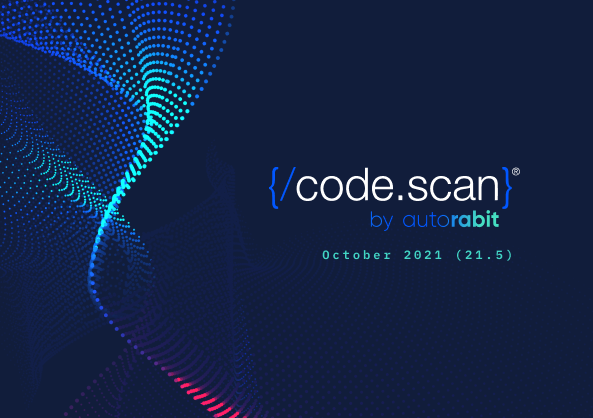
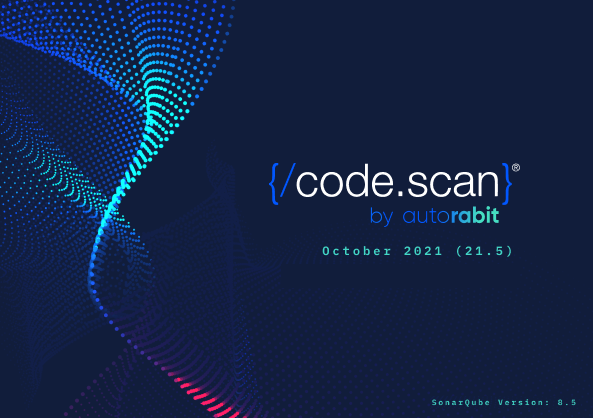
CD-2092 Changed Codescan version in footer and release tag image

diff --git a/server/sonar-web/src/main/js/app/components/GlobalFooterSonarCloud.tsx b/server/sonar-web/src/main/js/app/components/GlobalFooterSonarCloud.tsx
@@ -21,13 +21,7 @@ import * as getYear from 'date-fns/get_year';
 import * as React from 'react';
 import { translate } from 'sonar-ui-common/helpers/l10n';
 
-interface Props {
-  sonarqubeVersion?: string;
-}
-
-export default function GlobalFooterSonarCloud({
-  sonarqubeVersion
-}: Props) {
+export default function GlobalFooterSonarCloud() {
   return (
     <div className="page-footer page-container" id="footer">
       <div>
@@ -43,7 +37,7 @@ export default function GlobalFooterSonarCloud({
 
       <ul className="page-footer-menu">
         <li className="page-footer-menu-item">
-        	Version { sonarqubeVersion }
+        	Version {translate('footer.codescan_version')}
         </li>
         <li className="page-footer-menu-item">
         	<a rel="noopener noreferrer" target="_blank" href="https://www.codescan.io/tos/">{translate('footer.terms')}</a>
@@ -61,7 +55,7 @@ export default function GlobalFooterSonarCloud({
         	<a rel="noopener noreferrer" target="_blank" href="https://www.codescan.io/contact/">{translate('footer.help')}</a>
         </li>
         <li className="page-footer-menu-item">
-        	<a rel="noopener noreferrer" target="_blank" href="https://www.codescan.io/cloud/getting-started/">{translate('footer.about')}</a>
+        	<a rel="noopener noreferrer" target="_blank" href="https://knowledgebase.autorabit.com/codescan/docs/getting-started-with-codescan-cloud">{translate('footer.about')}</a>
         </li>
       </ul>
     </div>

diff --git a/server/sonar-web/src/main/js/app/components/GlobalFooter.tsx b/server/sonar-web/src/main/js/app/components/GlobalFooter.tsx
@@ -20,7 +20,7 @@
 import * as React from 'react';
 import { Link } from 'react-router';
 import { Alert } from 'sonar-ui-common/components/ui/Alert';
-import { translate, translateWithParameters } from 'sonar-ui-common/helpers/l10n';
+import { translate } from 'sonar-ui-common/helpers/l10n';
 import InstanceMessage from '../../components/common/InstanceMessage';
 import { getEdition } from '../../helpers/editions';
 import { isSonarCloud } from '../../helpers/system';
@@ -38,11 +38,10 @@ interface Props {
 export default function GlobalFooter({
   hideLoggedInInfo,
   productionDatabase,
-  sonarqubeEdition,
-  sonarqubeVersion
+  sonarqubeEdition
 }: Props) {
   if (isSonarCloud()) {
-    return <GlobalFooterSonarCloud sonarqubeVersion={sonarqubeVersion}/>;
+    return <GlobalFooterSonarCloud/>;
   }
 
   const currentEdition = sonarqubeEdition && getEdition(sonarqubeEdition);
@@ -64,9 +63,9 @@ export default function GlobalFooter({
         {!hideLoggedInInfo && currentEdition && (
           <li className="page-footer-menu-item">{currentEdition.name}</li>
         )}
-        {!hideLoggedInInfo && sonarqubeVersion && (
+        {!hideLoggedInInfo && (
           <li className="page-footer-menu-item">
-            {translateWithParameters('footer.version_x', sonarqubeVersion)}
+            Version {translate('footer.codescan_version')}
           </li>
         )}
         <li className="page-footer-menu-item">
